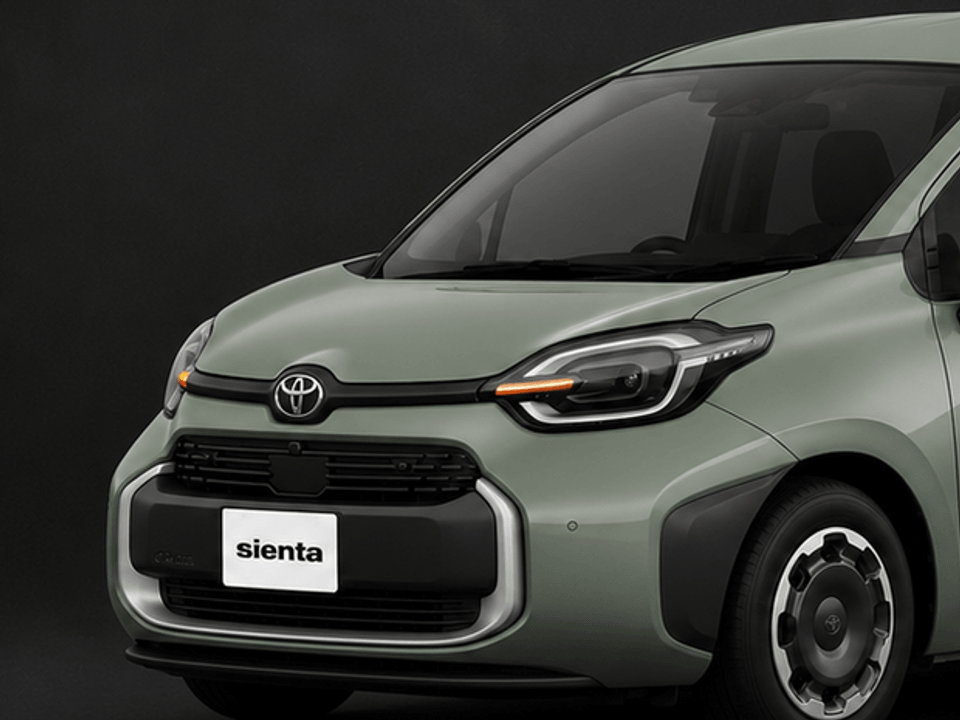
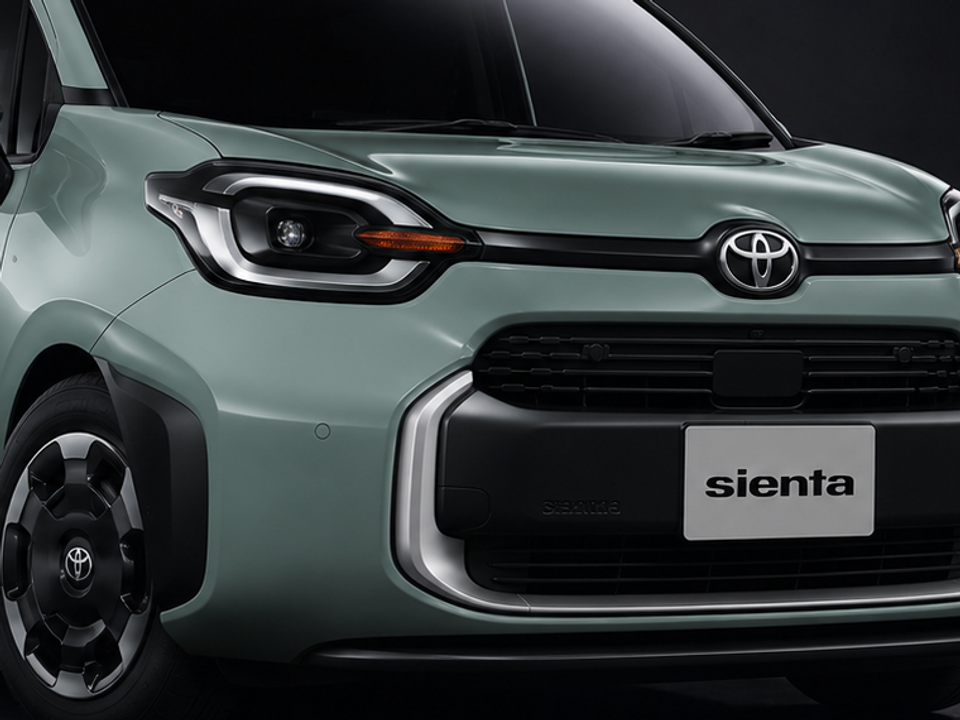
fix: replace SIENTA Home card with user-supplied close-up photo
Pure resize/crop of the new source photo to match the tight framing
VOXY/NOAH/Alphard/ESQUIRE and Vellfire's own Home cards already use --
no color/background edits, no flips, no car-body changes.

diff --git a/src/cars/sienta.js b/src/cars/sienta.js
@@ -112,10 +112,11 @@ export default {
   // visible, camera further back) unlike VOXY/Alphard's tight close-up
   // sources, so it read noticeably smaller/more distant than every
   // other card on Home even though heroImage itself is unchanged and
-  // still correct for this vehicle's own page. This is a pure recrop
-  // of that same photo (grille/headlight/front wheel, no pixel values
-  // changed) at roughly the same framing VOXY/Alphard's own source
-  // photos already have -- not a new image.
+  // still correct for this vehicle's own page. Originally a digital
+  // recrop of that same hero photo (2026-08-01); replaced (2026-08-03)
+  // with a dedicated user-supplied close-up photo framed the same way
+  // VOXY/Alphard's own sources are -- pure resize/reformat only, no
+  // pixel editing.
   homeCardImage: '/images/cars/sienta/home-card.webp',
   // gen1 (originally yellow) and gen2 (originally gold) were recolored
   // (hue/saturation remapped, original lightness/shading preserved) to
